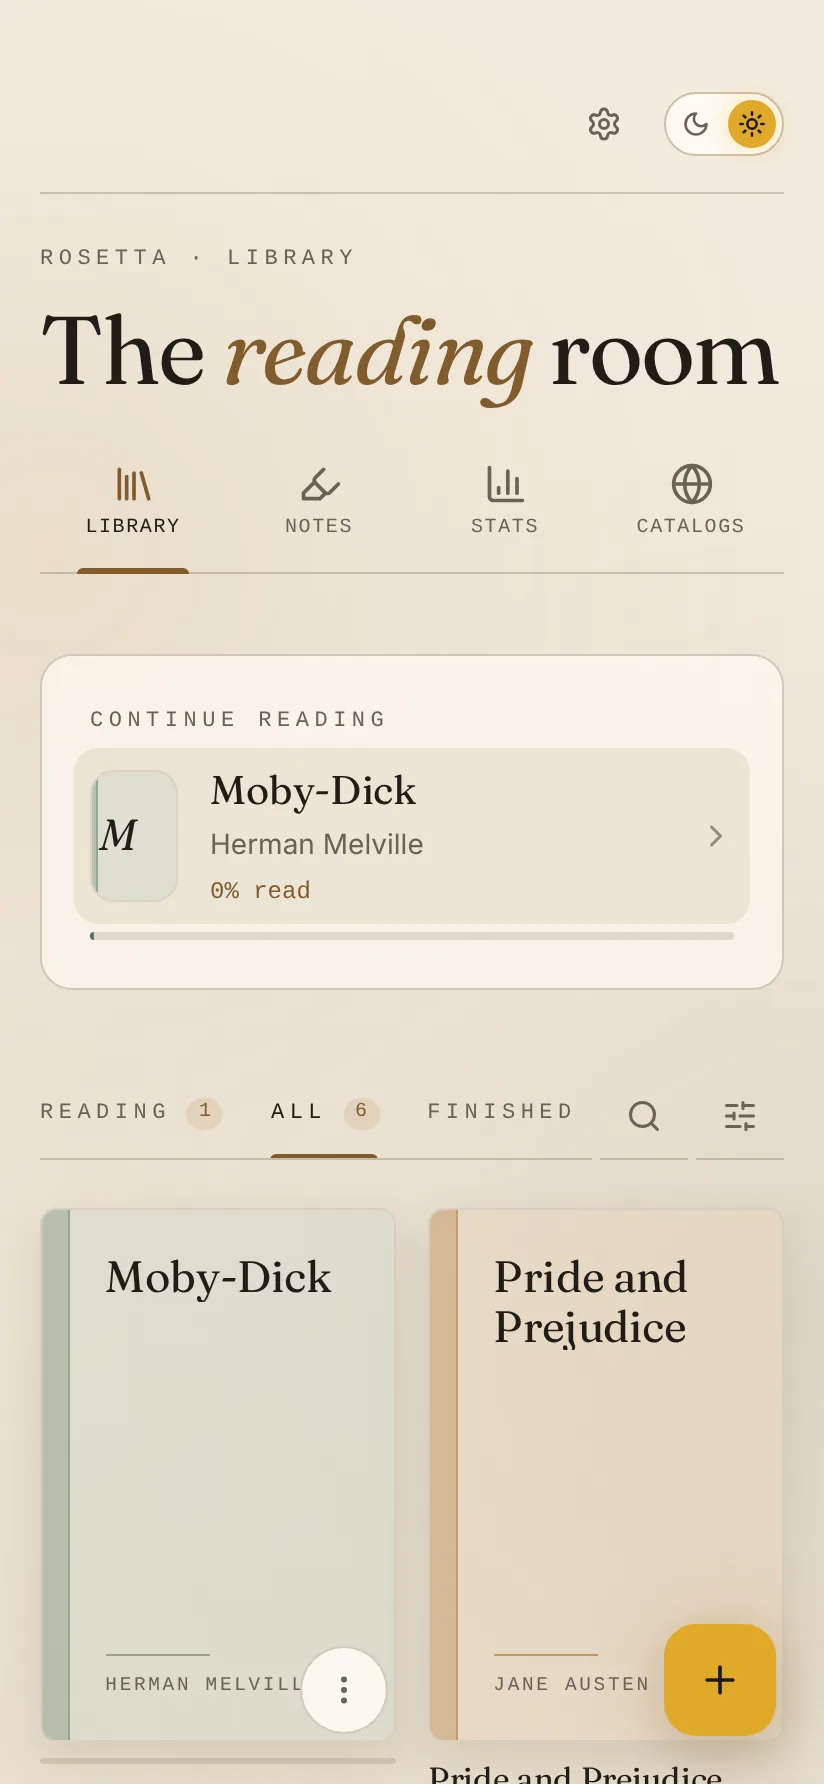
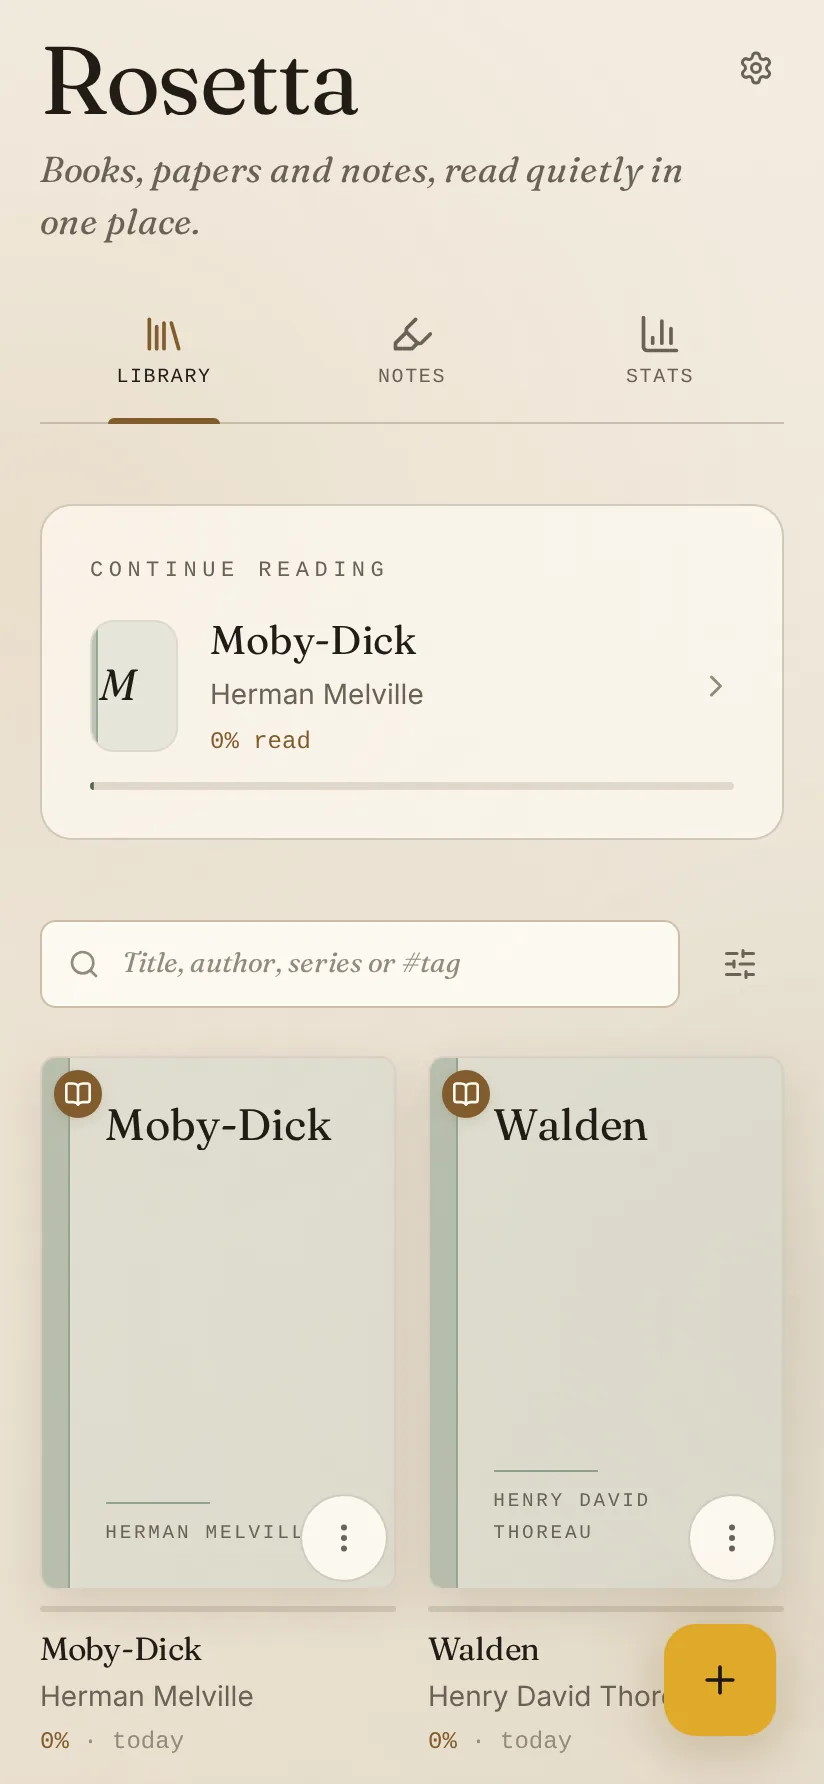
Guide and README for the new layout, with new screenshots
The guide describes the header and its three tabs, the marks on the
library's covers, the search field and filter, Notes with bookmarks, the
reorganised reading panel, Settings' tabs, sync with automatic backups, the
reminder and highlighting in Flow. Catalogs, Kindle import, font files and
the dim and warmth sliders leave it. The README follows, with five
languages, and its library and reading-panel screenshots are retaken.

Claude-Session: https://claude.ai/code/session_0159B3uWqiU4Fu8PwjKNYgzR

diff --git a/src/lib/guide.md b/src/lib/guide.md
@@ -16,7 +16,7 @@ Rosetta is a quiet place to read. It keeps your books, papers and notes on this 
 - **Comic archives** (`.cbz`), one picture after another.
 - **Markdown**, **HTML** and **plain text**, set in the same type as everything else.
 
-Add files with the **+** button, a whole folder at once (a Calibre library brings its titles, series, tags and covers), drop them on the window, or choose _Open with Rosetta_ from another app. On Android, text shared to Rosetta from another app, such as a passage from a browser or an email, is kept as a document. Adding the same file twice keeps one copy. The **Catalogs** tab has free books from Project Gutenberg and Standard Ebooks, and can add a Calibre server or a library's catalog (OPDS 1 or 2). A catalog's own choices, such as language or order, show as chips above its books, and a book you already have says _In your library_.
+Add files with the **+** button, drop them on the window, or choose _Open with Rosetta_ from another app. Settings can add a whole folder at once, and a Calibre library brings its titles, series, tags and covers. On Android, text shared to Rosetta from another app, such as a passage from a browser or an email, is kept as a document. Adding the same file twice keeps one copy.
 
 Books bought with DRM can't be opened here. Read them in the app they were bought for, or look for a DRM-free copy.
 
@@ -24,9 +24,9 @@ Books bought with DRM can't be opened here. Read them in the app they were bough
 
 Tap the middle of the page to hide the toolbars, and again to bring them back. Scrolling down hides them too.
 
-In **Aa**, the **Page** tab offers **Flow**: one sentence at a time, letter by letter. Tap to show the rest of the sentence and again for the next; tap the left edge to go back, and the count under the sentence to bring the toolbars back. **Visual anchors** set the start of every word in bold, the **Reading ruler** veils all but the line you're reading (drag its tab to move it), and **Yours** reads in a font file of your own. In scroll mode, _Start auto-scroll_ (in the **Page** tab) moves the page up at a pace you set: tap to pause and go on.
+In **Aa**, the **Page** tab offers **Flow**: one sentence at a time, letter by letter. Tap to show the rest of the sentence and again for the next; tap the left edge to go back, and the count under the sentence to bring the toolbars back. Hold a sentence to highlight it. In scroll mode, _Start auto-scroll_ (in the **Page** tab) moves the page up at the pace set in Settings: tap to pause and go on.
 
-In **Pages** mode (also in the **Page** tab), tap the left or right edge, swipe, or use the arrow keys to turn a page. The corner curls under your finger; choose _Slide_ or _None_ if you prefer less motion. On Android the volume keys turn pages too. On a tablet held sideways, pages lie open two at a time, as a printed book does; turn _Two pages side by side_ off in the **Page** tab for one. Comics marked as manga read right to left.
+In **Pages** mode (also in the **Page** tab), tap the left or right edge, swipe, or use the arrow keys to turn a page. The corner curls under your finger; Settings can make pages slide or turn without motion instead, and on Android lets the volume keys turn them. On a tablet held sideways, pages lie open two at a time, as a printed book does. Comics marked as manga read right to left.
 
 Tap a footnote number and the note opens over the page. Tap a picture to see it full screen.
 
@@ -40,33 +40,41 @@ After you jump somewhere from the contents, a search, a link or a note, **Back t
 
 **Bookmarks** mark the place on screen. Tap the bookmark at the top again to remove it.
 
-**Highlights** start with a selection. Choose a colour from the bar that appears, or _Note_ to write something beside it. Tap a highlight later to change its colour, edit the note, share it as a card or remove it. _Look up_ asks the dictionary.
+**Highlights** start with a selection. Choose a colour from the bar that appears, or _Note_ to write something beside it. Tap a highlight later to change its colour, edit the note, share it as a card or remove it with the bin. _Look up_ asks the dictionary.
 
-## Type and theme
+## The reading panel
 
 The **Aa** button opens the reading panel over the page, so you can watch each change as you make it. Its tabs show only what fits the document:
 
-- **Text** sets the typeface, size, line spacing and width of the column, and whether lines are justified.
-- **Page** chooses scrolling, pages or Flow, and for PDFs the zoom and whether pages keep their paper. A PDF can also show as **Text**: its words laid out in your type, for reading a paper on a phone, in any mode and aloud. Highlights and places carry over between the two.
-- **Light** has the theme, _Dim_, _Warmth_ and _Keep the screen on_.
-- **Listen** reads aloud, at the speed and in the voice you choose.
+- **Text**: Serif or Sans, the size, line spacing, justified lines, and the book's original style.
+- **Page**: scrolling, pages or Flow, and keeping the screen on. A PDF has its zoom and fit here, and can show as **Text**: its words laid out in your type, for reading a paper on a phone, in any mode and aloud. Highlights and places carry over between the two.
+- **Light**: true black for OLED screens, and night light, which dims and warms the page together in five steps.
+- **Listen**: read aloud, at the speed and in the voice you choose.
 
-Each book keeps the type and page settings changed while it is open, and a new book starts from the defaults. _Use for all books_ makes one book's settings the defaults; _Back to the defaults_ drops them.
+Each book keeps the text and page settings changed while it is open. The arrow at the top of the panel puts it back on the defaults.
 
-Rosetta has two themes. _Dusk_ is a late-night reading room and _Dawn_ is a sunlit study. _System_ follows your device. The theme is also in Settings.
+## Settings
+
+Settings, at the top right of the library, has five tabs:
+
+- **General**: the theme (_Dusk_ is a late-night reading room, _Dawn_ a sunlit study, _System_ follows your device), the language, a daily goal and a number of books for the year, a reminder to read at a time you choose, and the library's storage.
+- **Reading**: the defaults every book starts with, from the same controls as the reading panel, with Flow's speed, auto-scroll's pace and how pages turn. Under _Advanced_: the reading ruler (a band over the line you're reading), visual anchors (the start of each word in bold), the width of the column, and two pages side by side.
+- **Listen**: the speed and voice for reading aloud.
+- **Data**: back up now, with or without the books' files, and restore. Choose a folder that iCloud Drive, Syncthing or Dropbox keeps the same on your devices, and Rosetta syncs places, highlights and notes through it and writes automatic backups there, daily, weekly or monthly. _Clear all data_ starts again from nothing, after asking.
+- **About**: the version, and the easter eggs found.
 
 ## Your library
 
-The tabs under the title are **Library**, **Notes**, **Stats** and **Catalogs**. In the Library, **Arrange** chooses covers or a list, the order, and which collection or tag to show. Search the library with the magnifier: it finds titles and authors, and under _Inside the books_ the places in every book where the words appear (the first search reads each book once). Search with `#tag` for a tag. Tap a book's **⋮** for its details, where you can put it in a **collection**, and _Edit details_ fixes the title, author, series, tags and cover.
+The tabs under the name are **Library**, **Notes** and **Stats**. Each book in the Library carries a small mark: a dashed ring if it hasn't been opened, an open book if you're reading it, a tick once it's finished. The search field finds titles and authors, and under _Inside the books_ the places in every book where the words appear (the first search reads each book once). Search with `#tag` for a tag. The filter beside it shows only what's unopened, being read or finished, and chooses covers or a list, the order, and a collection or tag. Tap a book's **⋮** for its details, where you can put it in a **collection**, and _Edit details_ fixes the title, author, series, tags and cover.
 
-**Stats** shows time read today and this week, your streak, a calendar of the last few months and what you finished this year. Set a daily goal there, or a number of books for the year, if you'd like one. The first time the library opens in a new week, it shows last week's reading until you put it away; when nothing is in progress, it shows a line from your highlights instead.
+**Stats** shows time read today and this week, your streak, how far along your goals are, a calendar of the last few months and what you finished this year. The first time the library opens in a new week, it shows last week's reading until you put it away; when nothing is in progress, it shows a line from your highlights instead.
 
 ## Your notes
 
-The **Notes** tab gathers every highlight from every document; filter it by colour or words, and _Export these_ saves what it shows as Markdown. A book's details have room for a note on the whole book, which goes out with its highlights. From a document's details, or from the highlights list, you can export them as Markdown.
+The **Notes** tab gathers every highlight and bookmark from every document, under each book's title. Search finds words, notes and chapters in both; the chips show bookmarks only, or one colour. Tap any of them to open the book at that place. A book's details have room for a note on the whole book, and from there, or from a book's highlights list, its notes export as Markdown.
 
-Settings can bring over a Kindle's highlights from its _My Clippings.txt_, onto the same words in the same books here. It can also back up every place, bookmark, highlight and collection to a file, save the whole library with its files, and restore either later. **Sync with a folder** keeps places and notes the same on your devices through a folder you share between them: choose one in iCloud Drive, or one Syncthing or Dropbox keeps in step. Weekly backups can go to a folder of your choice too. **Storage** shows what each file takes and can offload one, keeping its place and notes until you add it again.
+**Storage**, in Settings, shows what each file takes and can offload one, keeping its place and notes until you add it again.
 
 A finished book can be logged in **BookShelf**, with your note on it, and a highlight can go there as a quote from the highlight itself.
 
-_Private._ Nothing you add leaves this device unless you open a catalog, sync to a folder you chose, or share it.
+_Private._ Nothing you add leaves this device unless you sync to a folder you chose, or share it.

diff --git a/README.md b/README.md
@@ -16,18 +16,17 @@ Rosetta is a quiet library and reader for EPUB, PDF, Word, OpenDocument, RTF, FB
   <img src="docs/screenshots/reader.webp" width="200" alt="Reading Moby-Dick: the first chapter in a serif typeface with the reader bar above">
   <img src="docs/screenshots/flow.webp" width="200" alt="Flow mode: Call me Ishmael, one sentence at a time in the middle of the screen">
   <img src="docs/screenshots/reading-panel.webp" width="200" alt="The reading panel over the page, with Text, Page, Light and Listen tabs">
-  <img src="docs/screenshots/library-dawn.webp" width="200" alt="The library in the light Dawn theme, with Continue reading and document cards">
+  <img src="docs/screenshots/library-dawn.webp" width="200" alt="The library in the light Dawn theme: Rosetta, Continue reading, the search field and filter, and covers marked as being read">
 </p>
 
 ## Features
 
 ### Your library
 
-- **Shelves and collections.** Documents as cards with their covers, a *Continue reading* panel (and an Android home-screen widget that opens the book at your place), shelves for Reading, All and Finished, and collections a document can be on any number of.
+- **A library with marks and collections.** Documents as cards with their covers, each marked as not opened, being read or finished, a *Continue reading* panel (and an Android home-screen widget that opens the book at your place), one search field and one filter, and collections a document can be on any number of.
 - **Up next.** When nothing is in progress, Rosetta offers the next volume of a series you just finished.
 - **Find anything.** Sort by recent, title, author or series, and filter by title, author, series or `#tag`. *Edit details* fixes the title, author, series, tags and cover.
 - **Add in bulk.** Add a whole folder at once where the browser allows it. Adding the same file twice keeps one copy.
-- **Catalogs.** Browse and download from OPDS catalogs. Project Gutenberg and Standard Ebooks are built in, and you can add a Calibre server or a library's feed.
 
 ### Every format
 
@@ -36,31 +35,30 @@ EPUB 2 and 3 (including fixed-layout books, footnotes, language and reading dire
 ### Reading
 
 - **Scroll or turn pages** with a page curl, a slide or no motion. Tap the edges, swipe, use the arrow keys or, on Android, the volume keys.
-- **Flow.** One sentence at a time in the middle of the screen, its letters appearing at the speed you set. The sentence count and bar stay put at the bottom centre.
-- **Visual anchors** set the start of every word in bold, and **Yours** reads in a font file you add (TTF, OTF, WOFF or WOFF2).
+- **Flow.** One sentence at a time in the middle of the screen, its letters appearing at the speed you set. Hold a sentence to highlight it. The sentence count and bar stay put at the bottom centre.
+- **A reading panel that stays out of the way.** Text, Page, Light and Listen, each with only what applies; the defaults, and niche aids such as a reading ruler and visual anchors, live in Settings.
 - **Read aloud**, sentence by sentence with the sentence highlighted. On Android it keeps reading with the screen off, with controls on the lock screen, pauses when headphones are unplugged, and a sleep timer stops it after 15 to 60 minutes or at the end of the chapter.
 - **Footnotes open in place**, and pictures open full screen with pinch zoom.
-- **Night comfort.** A dim and warmth layer, and the screen can stay on.
+- **Night comfort.** True black for OLED screens, night light in five steps that dim and warm the page together, and the screen can stay on.
 - **Always know where you are.** The footer shows the time left in the book or chapter, or which chapter this is. After a jump, *Back to* returns you to where you were.
-- **Contents, bookmarks and highlights** in one sheet, with page thumbnails for PDFs. Highlights come in three colours with an optional note, export as Markdown and share as a quote card. *All notes* gathers every highlight from every document, searchable. *Look up* sends a word to the system dictionary.
+- **Contents, bookmarks and highlights** in one sheet, with page thumbnails for PDFs. Highlights come in three colours with an optional note, export as Markdown and share as a quote card. *Notes* gathers every highlight and bookmark from every document, by book, searchable, each opening at its place. *Look up* sends a word to the system dictionary.
 
 ### Reading habits
 
 - **Stats.** Time read today and this week, your streak and longest streak, pace, a calendar of the last four months, the documents that took the most time, and what you finished this year.
-- **A daily goal** of 15, 30 or 60 minutes, noted once when it is met.
+- **Goals and a reminder.** A daily goal of 15, 30 or 60 minutes and a number of books for the year, set in Settings and followed in Stats, and an optional reminder to read at a time you choose.
 - **A little delight.** Confetti when you finish a book, an idle stone that says "read" in nine scripts, and four easter eggs, counted in Settings. All of it respects reduced motion.
 
 ### Your data
 
-- **Export and back up.** Every note as Markdown, your places, marks, details and collections as JSON, or the whole library with its files as a zip. On a phone, a dated backup is written each week, to a folder you can choose.
-- **Sync with a folder.** Places and marks merge with a file in a folder you choose with the system picker, in iCloud Drive or a folder Syncthing or Dropbox shares.
+- **Back up and sync.** Your places, marks, details, collections and settings as JSON, or the whole library with its files as a zip. Sync and automatic backups (daily, weekly or monthly) go through a folder you choose, and a reading reminder can come once a day.
 - **Storage.** See what each file takes, and offload a file while keeping its place and notes.
-- **Four languages.** English, Spanish, French and German.
+- **Five languages.** English, Spanish, French, German and Russian.
 - **The other apps.** Log a finished book in BookShelf, and let other apps open a document with `rosetta://open?title=…`.
 
 ## Private by design
 
-Your documents never leave the device. Rosetta goes online only when you browse a catalog, and sync goes through a folder you choose, not a Rosetta server. There are no accounts.
+Your documents never leave the device. Rosetta never goes online: sync goes through a folder you choose, not a Rosetta server. There are no accounts.
 
 ## Install
 

diff --git a/docs/DEVELOPMENT.md b/docs/DEVELOPMENT.md
@@ -41,7 +41,7 @@ npm run assets       # redraw the app icon and splash screens
 | `src/components/` | The library, the reader views and the sheets; `ui/` holds Rosetta's own pieces (Sheet, Modal and the rest); TabRail, Toast and ThemeToggle come from `dusk-dawn` |
 | `src/platform/` | Native bridges: files in and out, theme and system bars, haptics, keep-awake, volume keys and hand-off to the other apps |
 | `src/i18n/` | The interface strings: `en.ts` is the reference, and `es.ts`, `fr.ts` and `de.ts` must have every key (a unit test checks the placeholders) |
-| `src/lib/` | Pickers, exports, quote cards, OPDS catalogs and the guide |
+| `src/lib/` | Pickers, exports, quote cards, reminders and the guide |
 | `src/styles/` | `app.css`, which imports `dusk-dawn/tokens.css` and `dusk-dawn/components.css` first |
 | `tests/` | Vitest unit tests, Playwright end-to-end tests, and the fixtures (`tests/fixtures/make-fixtures.mjs` rebuilds them) |
 | `android/`, `ios/` | The Capacitor projects |
